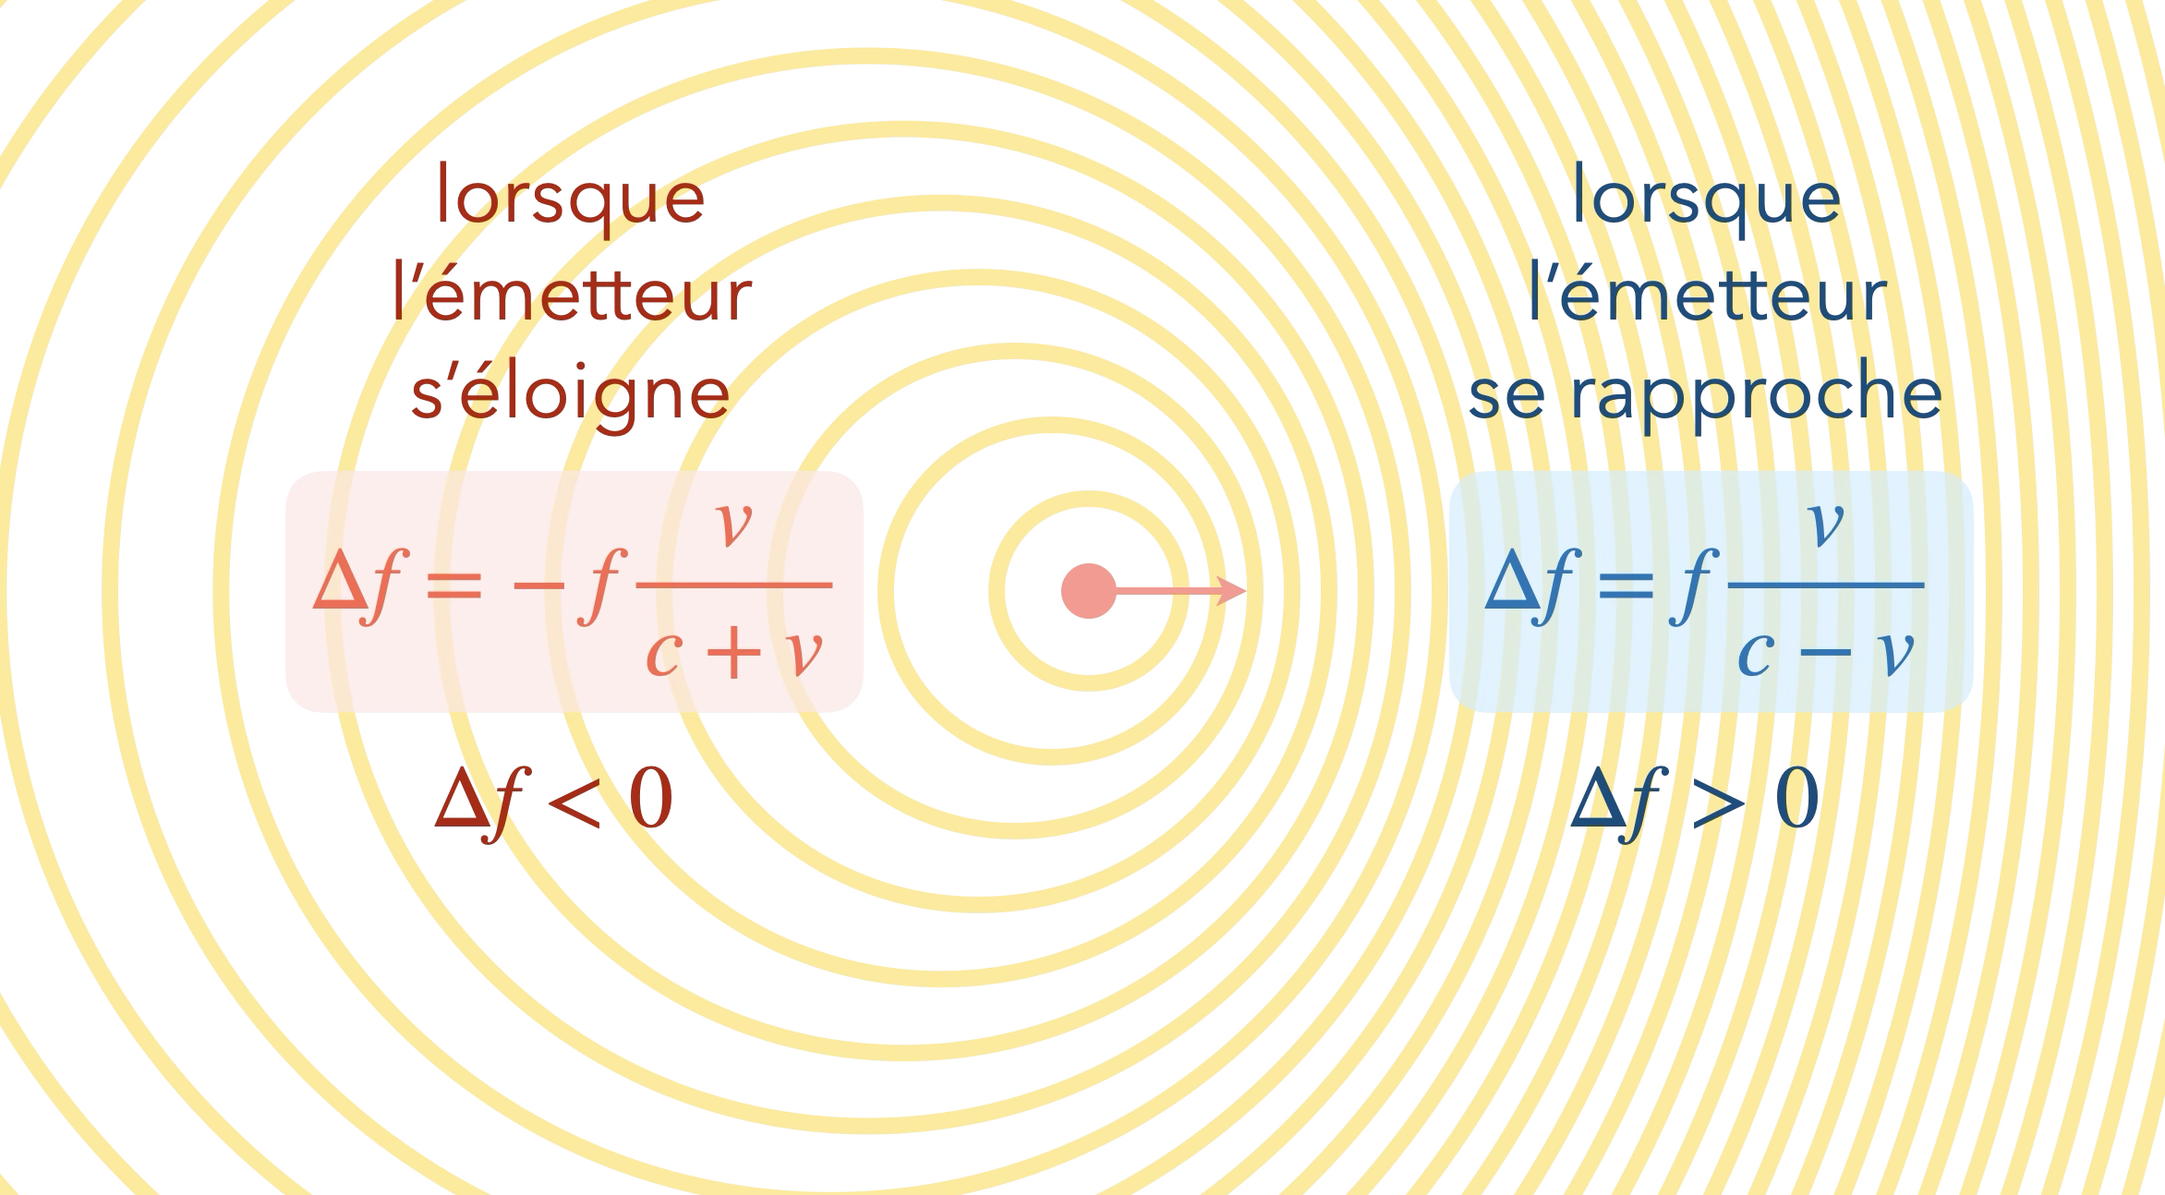
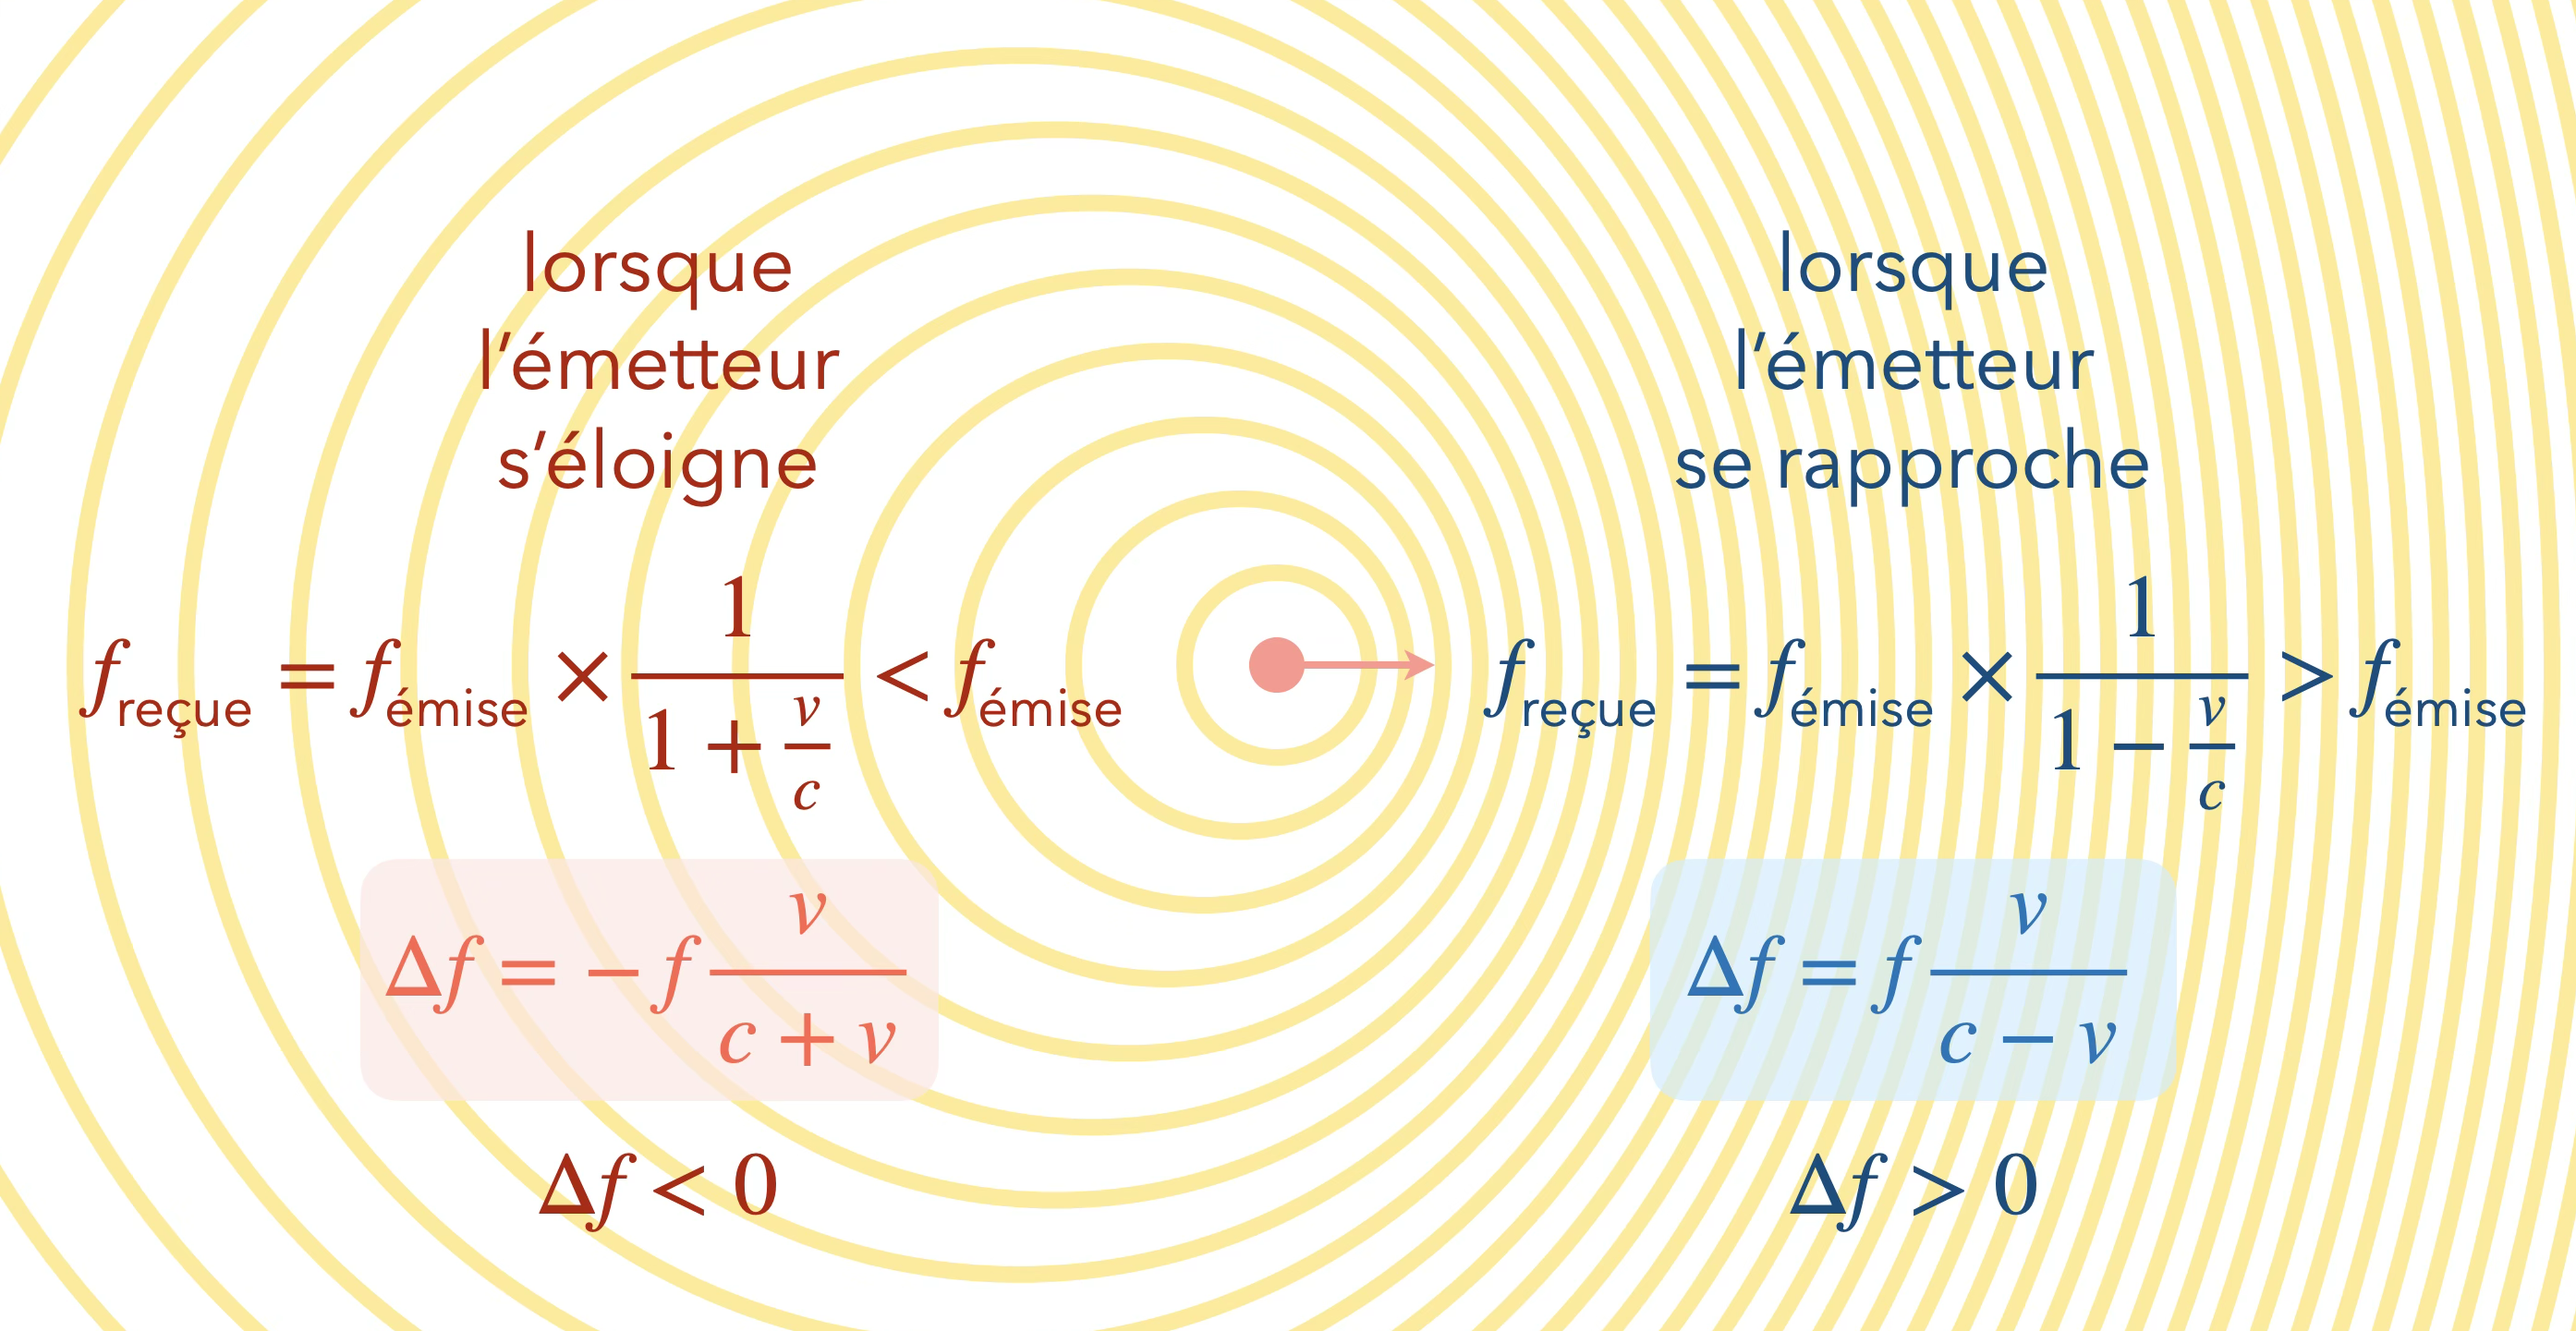
-

diff --git a/content/Tspe/diffr.md b/content/Tspe/diffr.md
@@ -100,7 +100,7 @@ La diffraction consiste en&nbsp;:
 
 ## Largeur d'une fente
 
-Une onde lumineuse de longueur d'onde $λ=\pu{500 nm}$ est diffractée par une fente de très grande longueur. Le premier minimum de diffraction est observé avec un angle $θ=\pu{0,1 rad}$ par rapport à l'axe central. Calculer la largeur de cette fente&nbsp;:
+Une onde lumineuse de longueur d'onde $λ=\pu{500 nm}$ est diffractée par une fente de très grande longueur. Le premier minimum de diffraction est observé avec un angle $θ=\pu{0,10 rad}$ par rapport à l'axe central. Calculer la largeur de cette fente&nbsp;:
 
 - [x] 5,0 µm
 - [ ] 50 nm
